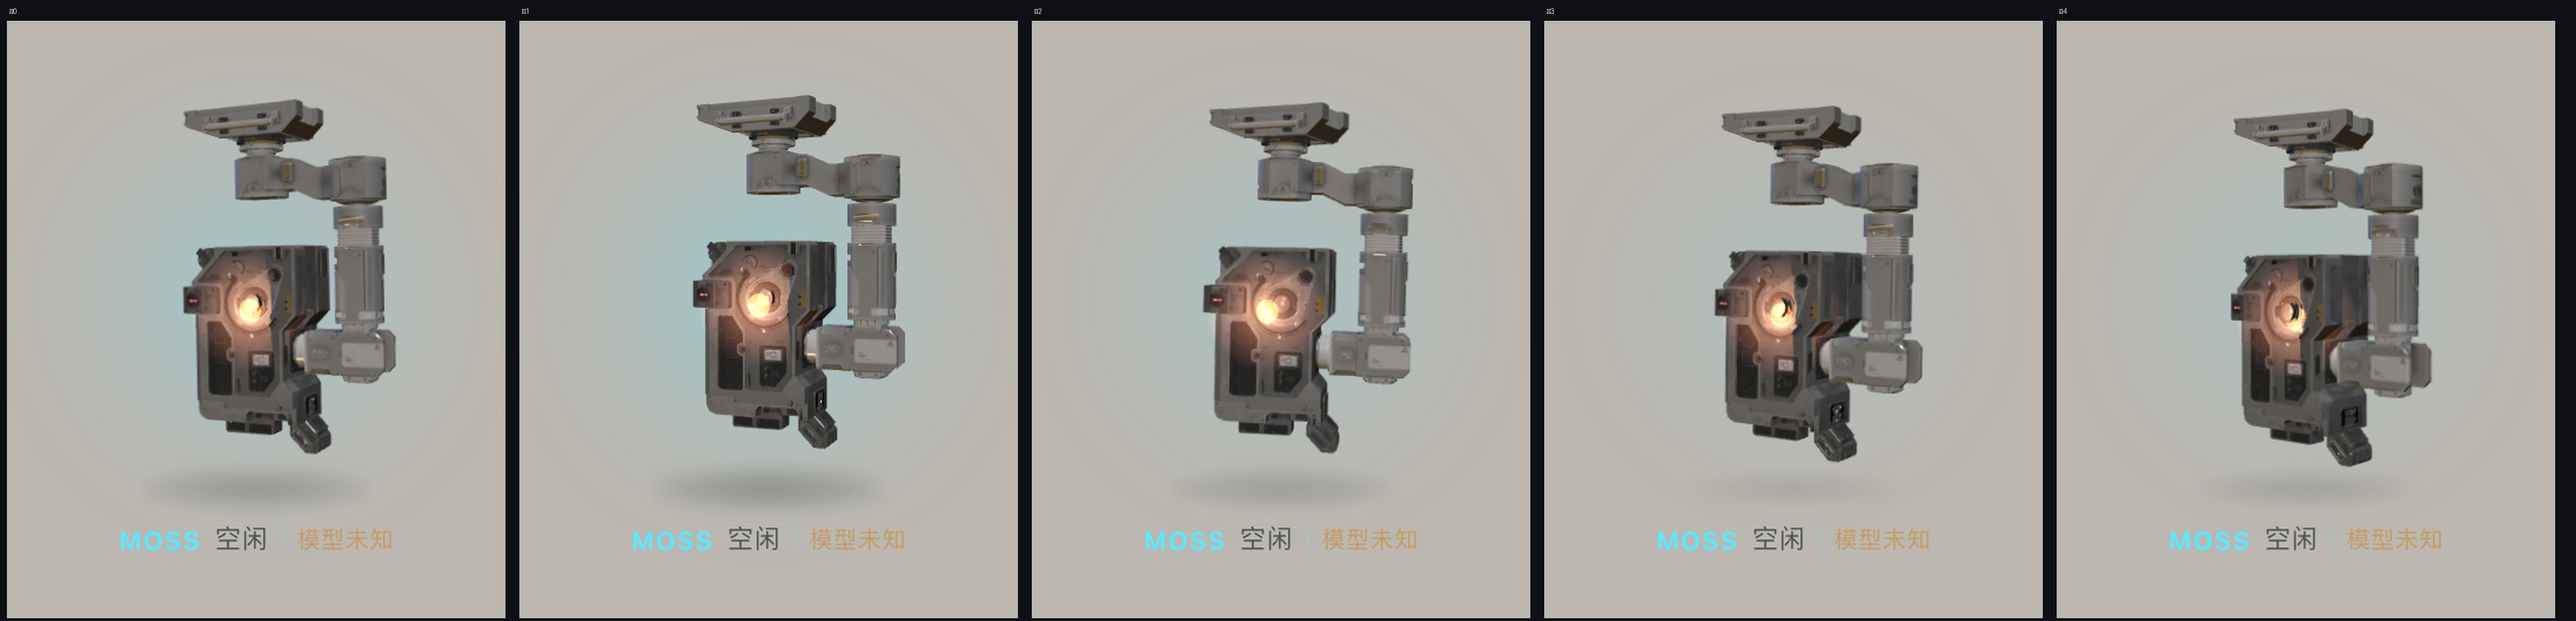
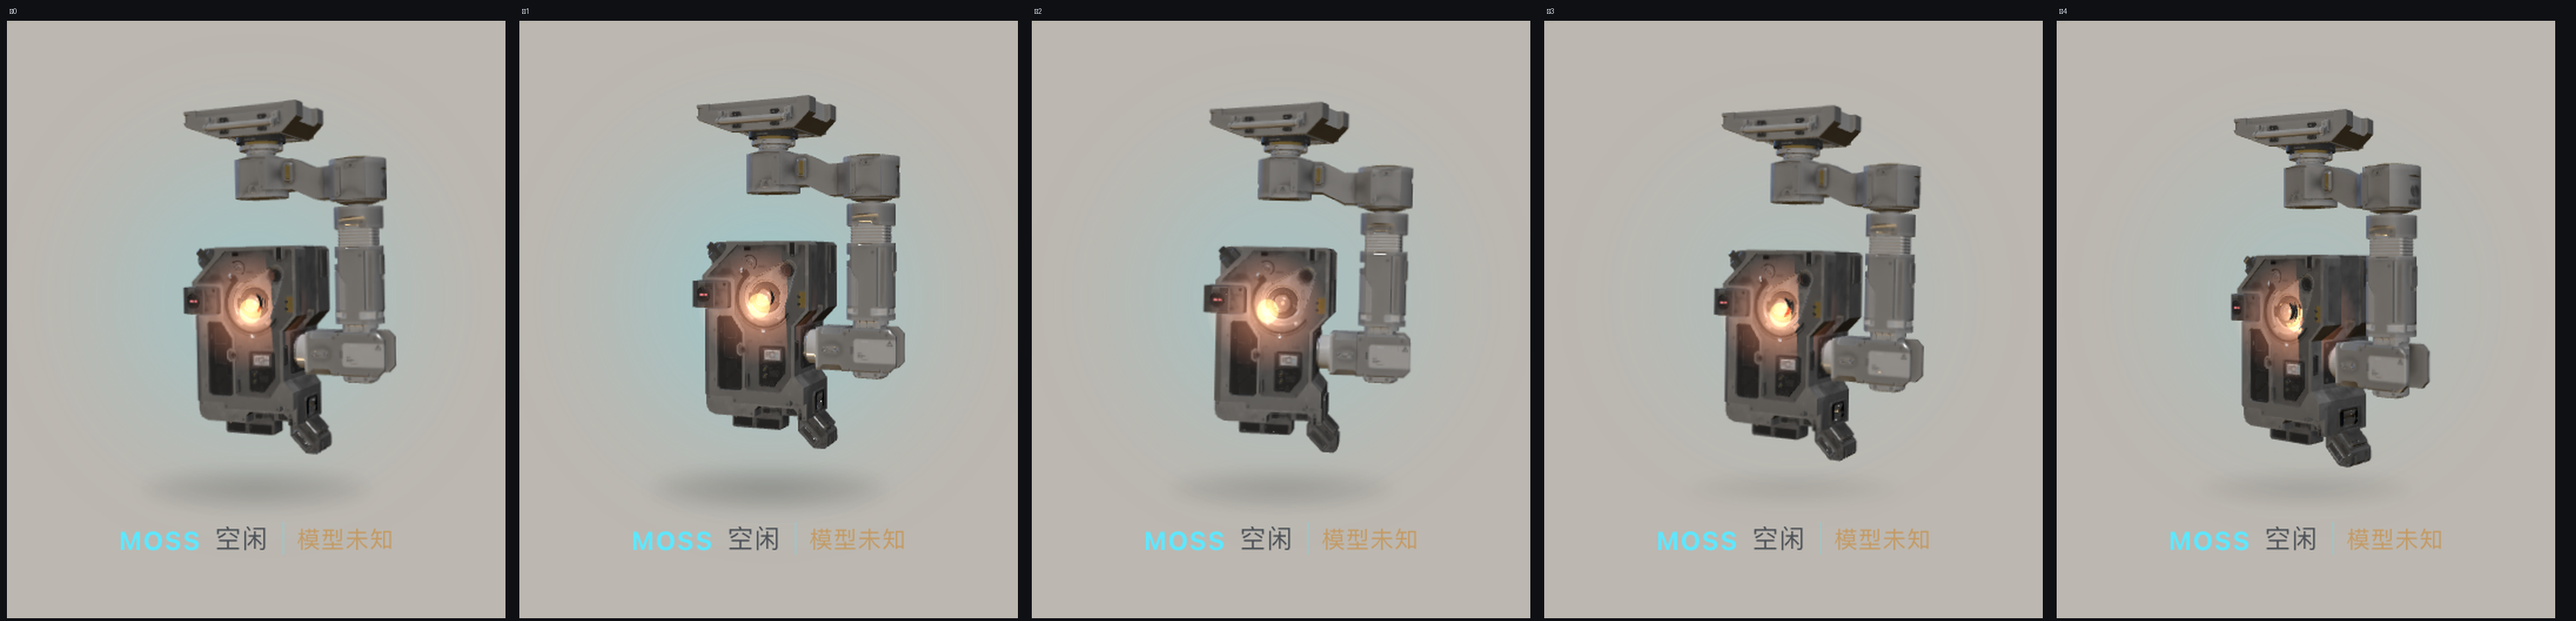
fix: PNG 兜底改为静态 + 3D 失败可见提示 + 渲染健康检查
- 兜底 PNG 不再做任何关节动效（切图旋转必然导致机身与手臂分离）
- 3D 加载/渲染失败时 HUD 显示「3D失败」并附原因，不再静默降级
- boot.js 首帧后 1.2s 检查 renderer.info.render.calls，为 0 则判定失败走兜底
- 清理全部调试代码
- 素材版本 v61

diff --git a/client/client.js b/client/client.js
@@ -37,7 +37,7 @@ window.__ModuleLoader__.load({
     var ROOT_ID = 'dsh-pet-liang-root'
     var POS_KEY = 'dsh-pet-liang:pos'
     /* 素材改了名字没变，加一个版本号强制浏览器重新取（宿主给的是 immutable 缓存） */
-    var ASSET_V = '59'
+    var ASSET_V = '61'
     var STYLE_ID = 'dsh-pet-liang-style'
 
     /** 四档推理等级对应的称呼与氛围色。 */
@@ -278,8 +278,7 @@ window.__ModuleLoader__.load({
       '#' + ROOT_ID + ' .moss3d{position:absolute;left:0;bottom:16px;width:100%;height:100%;z-index:4;display:none;}',
       '#' + ROOT_ID + ' .moss3d.on{display:block;}',
       '#' + ROOT_ID + ' .forearm{position:absolute;left:0;bottom:16px;width:100%;height:auto;z-index:3;',
-      'pointer-events:none;transform-origin:62.89% 35.55%;animation:pet-arm 5.2s ease-in-out infinite;',
-      'transition:opacity .3s linear;',
+      'pointer-events:none;display:none; /* PNG 兜底不做关节动效：切图旋转会导致机身与手臂分离 */',
       '-webkit-mask-image:linear-gradient(to bottom,#000 92%,transparent 100%);',
       'mask-image:linear-gradient(to bottom,#000 92%,transparent 100%);}',
       '#' + ROOT_ID + '[data-working="1"] .forearm{opacity:0;animation:none;}',
@@ -446,6 +445,22 @@ window.__ModuleLoader__.load({
     var moss3dBroken = false
     var moss3dTried = false
 
+    var moss3dFailed = null
+
+    /** 3D 不可用时在 HUD 上显示原因，便于排查（不静默降级） */
+    function mark3dFailed(err) {
+      moss3dFailed = String((err && err.message) || err || 'unknown').slice(0, 40)
+      try { console.error('[dsh-pet-liang] 3D 不可用：', err) } catch (e) { /* noop */ }
+      if (overlay) {
+        var node = overlay.querySelector('.model')
+        if (node) {
+          node.textContent = '3D失败'
+          node.setAttribute('data-unknown', '1')
+          node.title = moss3dFailed
+        }
+      }
+    }
+
     function ensure3d(canvas) {
       if (moss3d || moss3dBroken || moss3dTried) return
       moss3dTried = true
@@ -454,17 +469,18 @@ window.__ModuleLoader__.load({
         moss3d = mod.createMoss3D(canvas, {
           base: BASE + '/3d/',
           ver: ASSET_V,
-          onError: function () {
+          onError: function (err) {
             moss3dBroken = true
             canvas.classList.remove('ready')
+            mark3dFailed(err)
           },
         })
         canvas.classList.add('ready')
         if (current) paint(current, false)
-      }).catch(function () {
-        /* 加载失败就继续用 PNG 立绘 */
+      }).catch(function (err) {
         moss3dBroken = true
         canvas.classList.remove('ready')
+        mark3dFailed(err)
       })
     }
 

diff --git a/assets3d/boot.js b/assets3d/boot.js
@@ -38,6 +38,7 @@ export function createMoss3D(canvas, opts) {
   let raf = 0
   let t0 = performance.now()
   let active = true
+  let healthChecked = false
   let last = 0
 
   function resize() {
@@ -185,6 +186,15 @@ export function createMoss3D(canvas, opts) {
         })
 
         arm.visible = false
+        if (typeof console !== 'undefined') {
+          obj.updateMatrixWorld(true)
+          const bb = new THREE.Box3().setFromObject(obj)
+          let vis = 0
+          obj.traverse((n) => { if (n.isMesh && n.visible) vis += 1 })
+          window.__diag__ = 'meshes=' + vis + ' bbox y ' + bb.min.y.toFixed(1) + '..' + bb.max.y.toFixed(1) +
+            ' x ' + bb.min.x.toFixed(1) + '..' + bb.max.x.toFixed(1) +
+            ' cam ' + camera.position.x.toFixed(1) + ',' + camera.position.y.toFixed(1) + ',' + camera.position.z.toFixed(1)
+        }
         armTop = p1
         armMid = p2
         armWrist = p3
@@ -296,6 +306,15 @@ export function createMoss3D(canvas, opts) {
       if (armMid) armMid.rotation.y = ang('a2')
       if (armWrist) armWrist.rotation.y = ang('a3')
     renderer.render(scene, camera)
+    if (!healthChecked) {
+      healthChecked = true
+      window.setTimeout(() => {
+        if (disposed) return
+        if (renderer.info.render.calls === 0) {
+          onError(new Error('3D 渲染无输出（calls=0）'))
+        }
+      }, 1200)
+    }
   }
 
   return {
